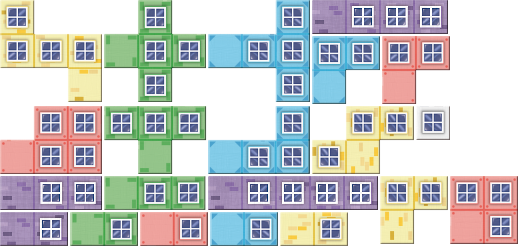
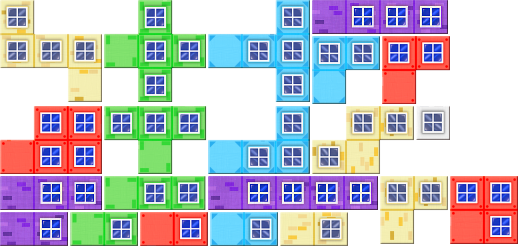
Fixed ipad drag fighting issue - baked in polyomino colorblind colors to fix safari css glow not going away.

diff --git a/copenhagen.js b/copenhagen.js
@@ -1674,14 +1674,16 @@ function (dojo, declare) {
         dropPolyominoOnBoard: function()
         {
 
+
             try{
 
                 // FIRST, SCOOT POLYOMINO TO BE FULLY ON BOARD (IF NEEDED)
                 var boardCellsNode = dojo.query(`#copen_wrapper #player_${this.player_id}_playerboard .copen_board_cells`)[0];
-                var polyominoNode = dojo.query(`#${this.selectedPolyomino.id}`)[0];
+                var polyominoNode = dojo.byId(this.selectedPolyomino.id);
 
                 boardCellsNodePosition = dojo.position( boardCellsNode, true );
                 polyominoNodePosition = dojo.position( polyominoNode, true);
+
 
                 // SCOOT LEFT OR RIGHT
                 if( polyominoNodePosition.x < boardCellsNodePosition.x )
@@ -1710,6 +1712,7 @@ function (dojo, declare) {
                 // FIND CELL CLOSEST TO THE POLYOMINO'S MIN HTML COORDINATE
                 polyominoNodePosition = dojo.position( polyominoNode, true); // refresh the position after any scooting
                 
+
                 var originCell = dojo.query(`#copen_wrapper #player_${this.player_id}_playerboard .copen_board_cell_0_0`)[0];
 
                 // LOOP THROUGH ALL COLUMNS TO SEE WHICH IS CLOSEST
@@ -2201,7 +2204,6 @@ function (dojo, declare) {
         onDragStartPolyomino: function( event )
         {
             
-            console.log("onDragStartPolyomino");
 
             var target = event.currentTarget ?? event.customTarget;
 
@@ -2299,7 +2301,6 @@ function (dojo, declare) {
             dojo.stopEvent( event );
             if( this.selectedPolyomino == null ) return;
 
-            console.log("onDragEndPolyomino");
 
             // IF WE START WITH DRAG, WE DON'T TURN ON PLACEMENT UI IMMEDIATELY.
             //   do it now, if it hasn't been done
@@ -2317,6 +2318,12 @@ function (dojo, declare) {
 
         onTouchEndPolyomino: function( event )
         {
+            // JAVASCRIPT NOTE
+            //  I thought stopping events was just to prevent that event from being sent to parents of the child catching the event
+            //  But in this case, an iPad will send both a touchend event AND a onclick if the user hasn't moved their finger past a certain threshold
+            //  you can stop the onclick by stopping the event
+            dojo.stopEvent( event );
+
             var syntheticEvent = new MouseEvent("ondragend");
 
             this.onDragEndPolyomino( syntheticEvent );
@@ -2503,7 +2510,8 @@ function (dojo, declare) {
             this.slideToObjectPos( this.selectedPolyomino["id"], stackId, this.selectedPolyomino.originalPosition.l, this.selectedPolyomino.originalPosition.t, 500 ).play();
 
             // RECONNECT THE EVENTS
-            var polyominoNode = dojo.query(`#copen_wrapper #${this.selectedPolyomino["id"]}`)[0];
+            var polyominoNode = dojo.byId(this.selectedPolyomino.id);
+            dojo.connect( polyominoNode, "onclick", this, "onSelectPolyomino" );
             this.connectDraggingEventsToPolyomino( polyominoNode );
 
             this.removeOverlap();
@@ -2533,6 +2541,7 @@ function (dojo, declare) {
             else if( event.customTarget != null ) targetId = event.customTarget.id
 
             var coordinates = this.getCoordinatesFromId( targetId );
+
             this.positionPolyomino( coordinates);
         },
 
@@ -2909,7 +2918,7 @@ function (dojo, declare) {
             var newTopOfStack = this.determineTopPolyominoInStack( stackId );         
             if( newTopOfStack != null )
             {
-                dojo.connect( newTopOfStack, "onclick", this, this.selectPolyominoEventHandlerName );
+                dojo.connect( newTopOfStack, "onclick", this, "onSelectPolyomino" );
                 this.connectDraggingEventsToPolyomino( newTopOfStack );
             }
 

diff --git a/copenhagen.css b/copenhagen.css
@@ -1177,76 +1177,29 @@ I'VE TRIED KEEPING THE GRABBING HAND DURING THE WHOLE DRAG OPERATION
     background-image:  url('img/cards_colorblind.png');
 }
 
-
-.copen_colorblind .copen_green_polyomino,
 .copen_colorblind .copen_green_card .copen_card_image,
 .copen_new_color.copen_green_card
 {
     filter: saturate(2);  
 }
 
-.copen_colorblind .copen_green_polyomino.copen_usable:hover
-{
-    filter: saturate(2)  drop-shadow(0px 0px 5px white);  
-}
 
-.copen_colorblind .copen_green_polyomino.copen_unusable:hover
-{
-    filter: saturate(2)  drop-shadow(0px 0px 5px red);  
-}
-
-
-
-.copen_colorblind .copen_red_polyomino,
 .copen_colorblind .copen_red_card .copen_card_image,
 .copen_new_color.copen_red_card
 {
     filter: saturate(4);  
 }
 
-.copen_colorblind .copen_red_polyomino.copen_usable:hover
-{
-    filter: saturate(4) drop-shadow(0px 0px 5px white);  
-}
-.copen_colorblind .copen_red_polyomino.copen_unusable:hover
-{
-    filter: saturate(4) drop-shadow(0px 0px 5px red);  
-}
-
-
-
-.copen_colorblind .copen_purple_polyomino,
 .copen_colorblind .copen_purple_card .copen_card_image,
 .copen_new_color.copen_purple_card
 {
     filter: saturate(3) brightness(0.8) contrast(1.5);   
 }
 
-.copen_colorblind .copen_purple_polyomino.copen_usable:hover
-{
-    filter: saturate(3) brightness(0.8) contrast(1.5) drop-shadow(0px 0px 5px white);   
-}
-
-.copen_colorblind .copen_purple_polyomino.copen_unusable:hover
-{
-    filter: saturate(3) brightness(0.8) contrast(1.5) drop-shadow(0px 0px 5px red);   
-}
-
-.copen_colorblind .copen_blue_polyomino,
 .copen_colorblind .copen_blue_card .copen_card_image,
 .copen_new_color.copen_blue_card
 {
     filter: saturate(1.5) contrast(1.2);   
-}
-
-.copen_colorblind .copen_blue_polyomino.copen_usable:hover
-{
-    filter: saturate(1.5) contrast(1.2) drop-shadow(0px 0px 5px white);   
-}
-
-.copen_colorblind .copen_blue_polyomino.copen_unusable:hover
-{
-    filter: saturate(1.5) contrast(1.2) drop-shadow(0px 0px 5px red);   
 }
 
 .copen_colorblind .copen_playerboard_color_e2474a .copen_playerboard_image  /* red */
